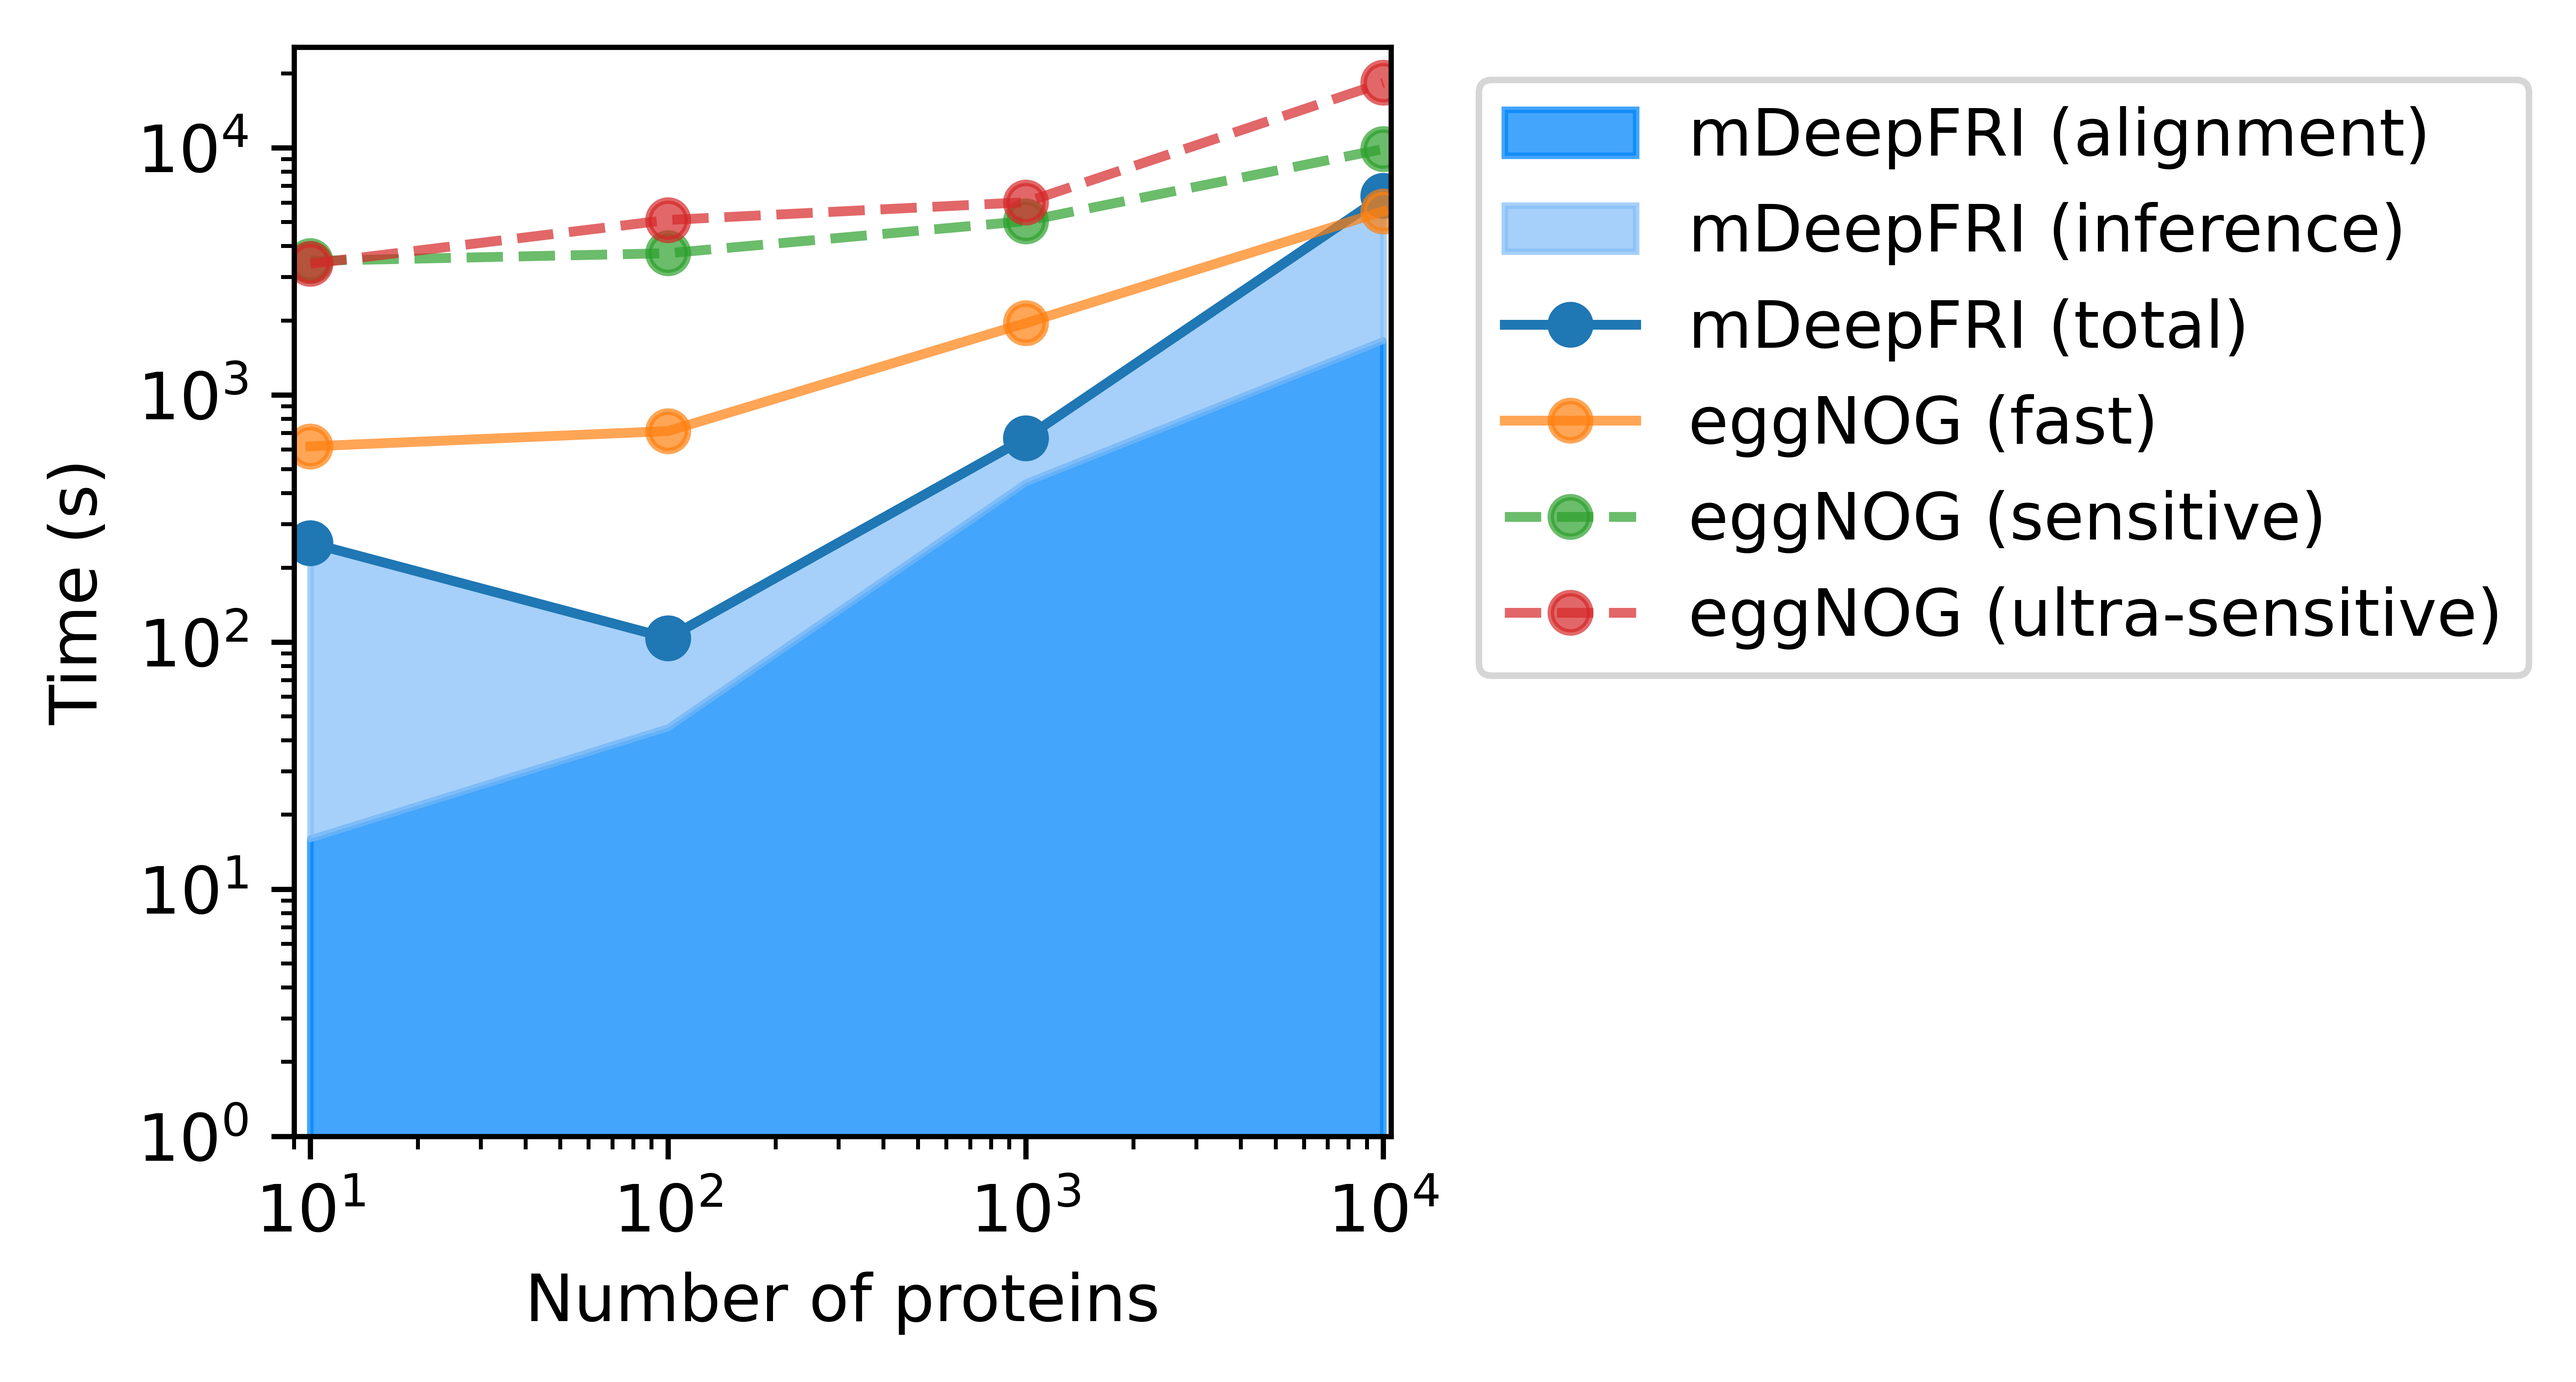
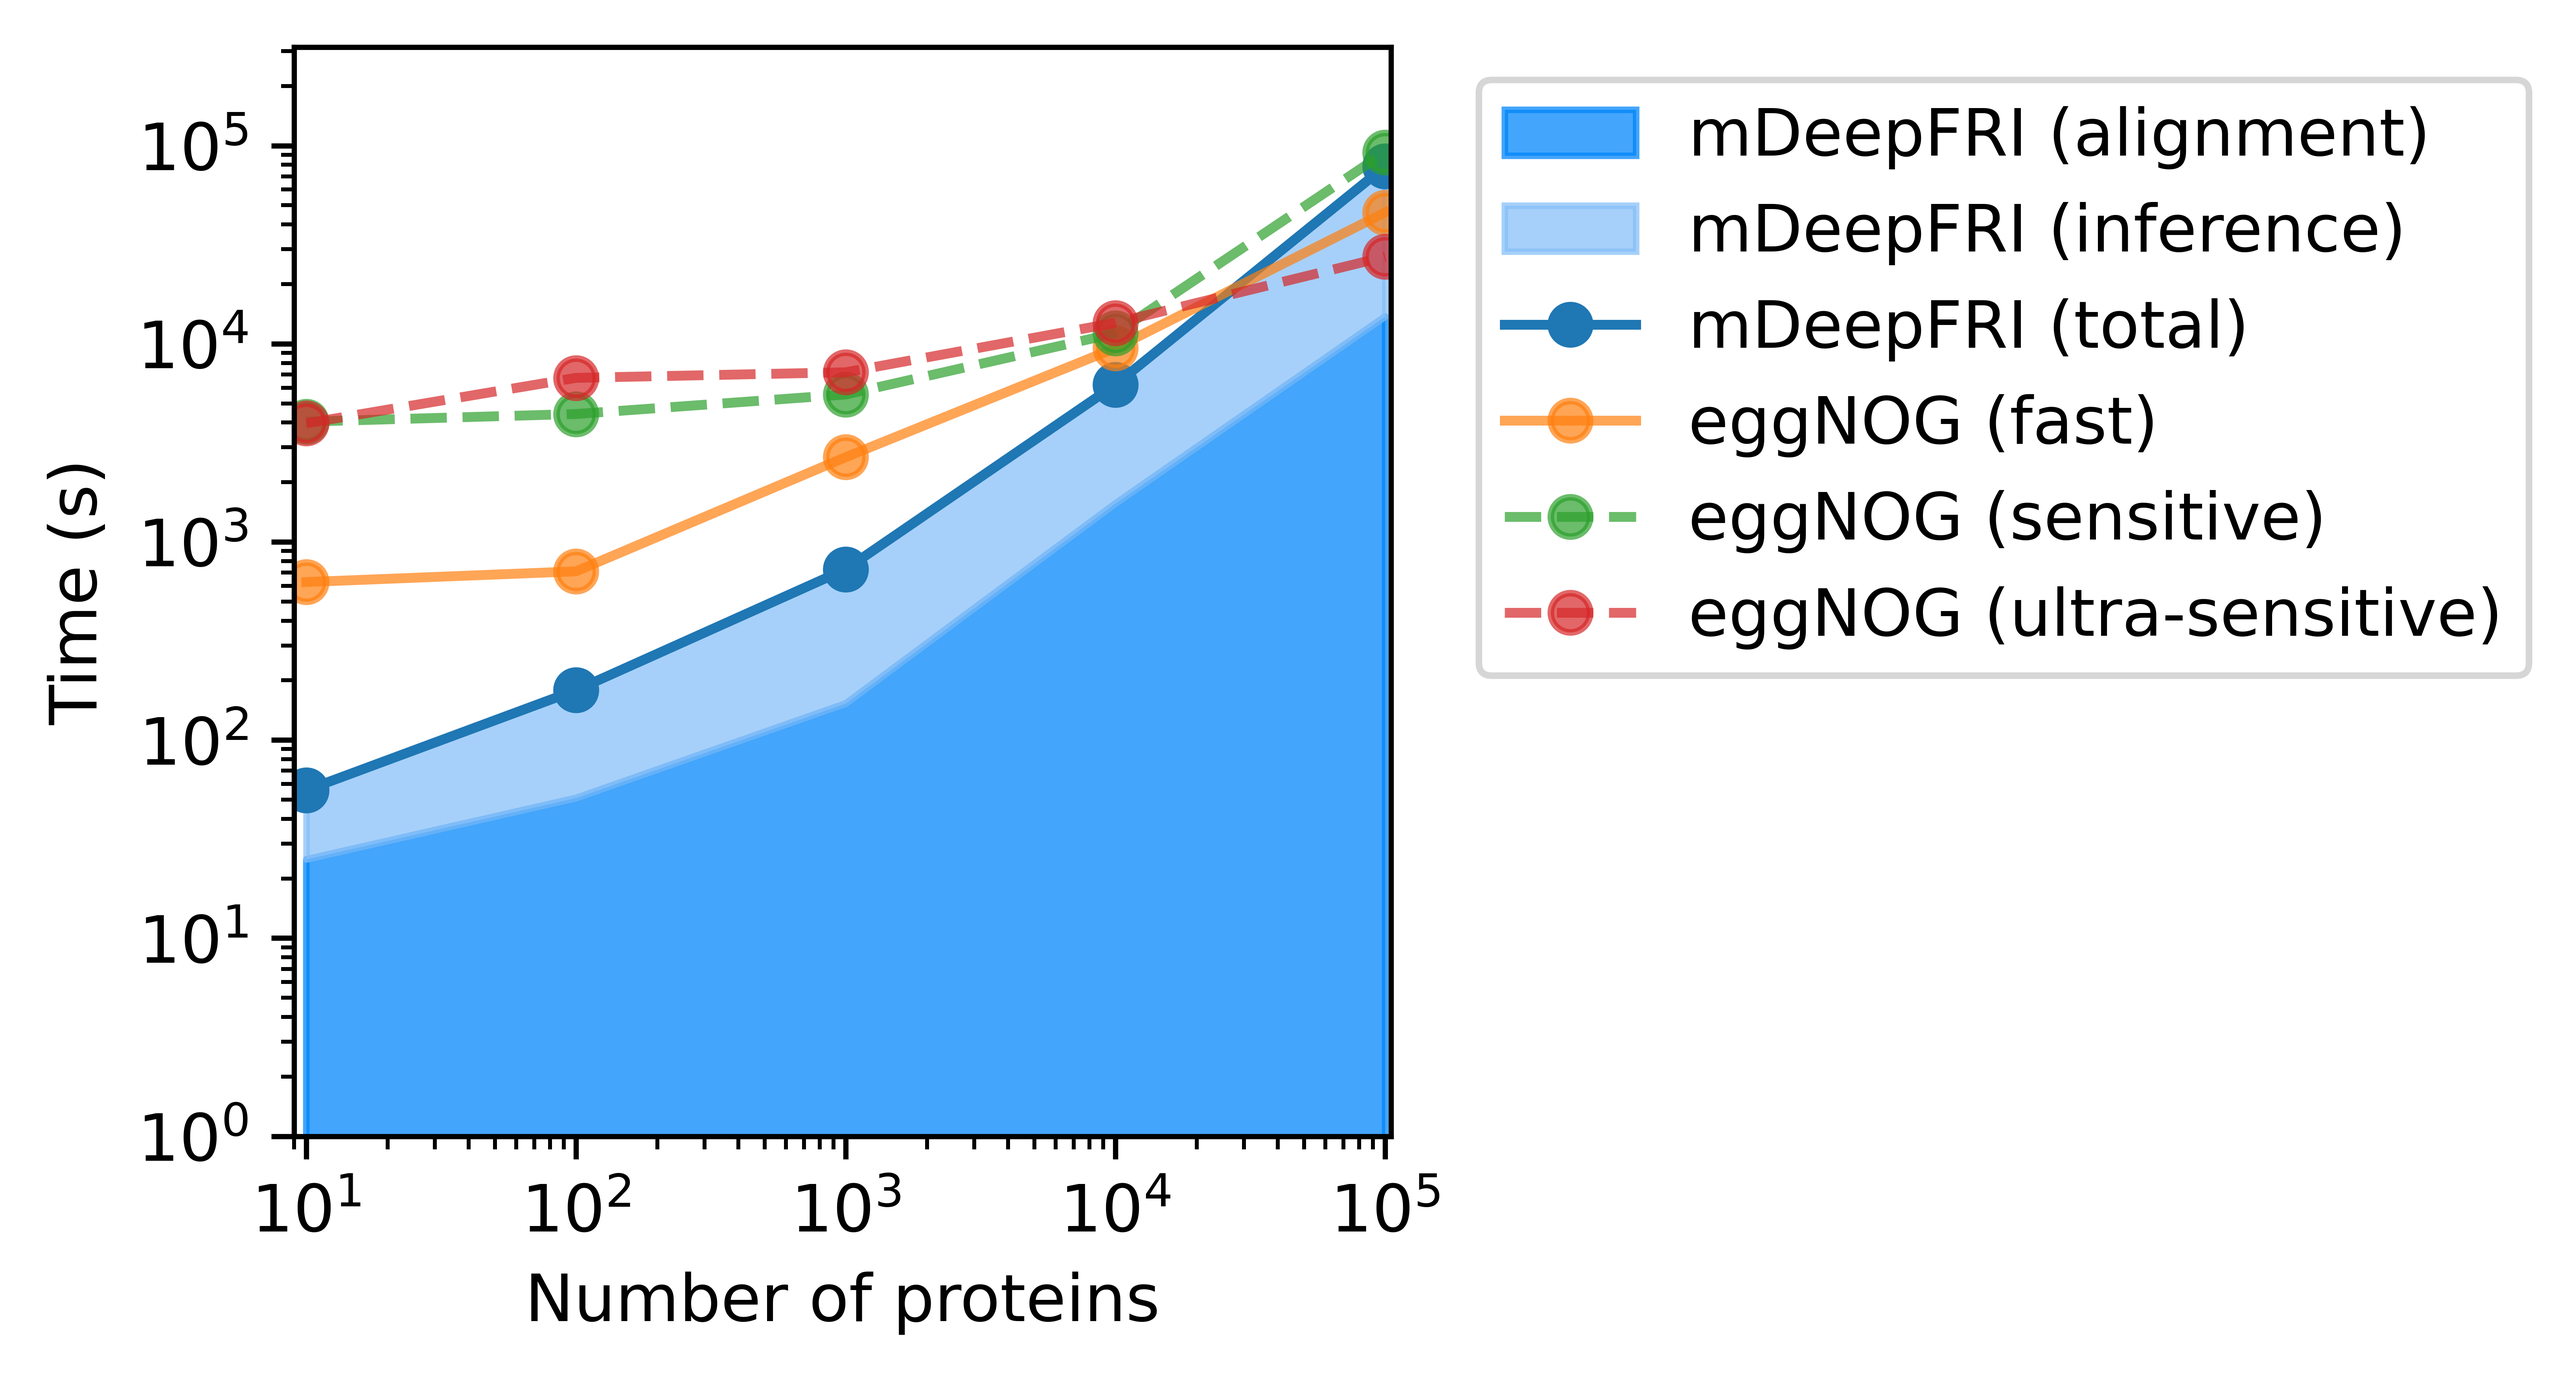
bench: update benchmark

diff --git a/benchmark/time_benchmark_cpu.py b/benchmark/time_benchmark_cpu.py
@@ -13,7 +13,7 @@ def generate_fasta(count, filename):
     command = [
         'conda', 'run', '-n', 'data-analysis', 'seqkit', 'sample', '-n',
         str(count), '-s', '42', '-o', filename, '-2',
-        '../data/databases/afdb_swissprot_v4.fasta.gz'
+        '/nfs/nas22/fs2202/biol_micro_sunagawa/Projects/EAN/PROPHAGE_REFSEQ_EAN/scratch/databases/afdb_swissprot_v4.fasta.gz'
     ]
     try:
         subprocess.run(command,
@@ -55,7 +55,7 @@ def generate_fasta(count, filename):
 
 def run_benchmark():
     # generate FASTA file with 10, 100, 1000 and 10,000 sequences
-    counts = [10, 100, 1000, 10000]
+    counts = [10, 100, 1000, 10000, 100_000]
 
     # Create temporary directory for outputs
     temp_dir = 'benchmark_temp'
@@ -159,8 +159,8 @@ def run_benchmark():
                 cmd = [
                     'conda', 'run', '-n', 'eggnog', 'emapper.py', '-i',
                     abs_fasta, '-o', eggnog_out_prefix, '--data_dir',
-                    '../data/databases', '--cpu', '16', '--override',
-                    '--pfam_realign', 'none'
+                    '/nfs/nas22/fs2202/biol_micro_sunagawa/Projects/EAN/PROPHAGE_REFSEQ_EAN/scratch/databases',
+                    '--cpu', '16', '--override', '--pfam_realign', 'none'
                 ] + sens_flags
 
                 run_step(cmd, f"EggNOG {sens_name}",
@@ -174,8 +174,11 @@ def run_benchmark():
             cmd = [
                 'conda', 'run', '-n', 'deepfri', 'mDeepFRI',
                 'predict-function', '-i', abs_fasta, '-d',
-                '../data/databases/afdb_swissprot_v4', '-d',
-                '../data/databases/highquality_clust30', '-w', '../models',
+                '/nfs/nas22/fs2202/biol_micro_sunagawa/Projects/EAN/PROPHAGE_REFSEQ_EAN/scratch/databases/afdb_swissprot_v4',
+                '-d',
+                '/nfs/nas22/fs2202/biol_micro_sunagawa/Projects/EAN/PROPHAGE_REFSEQ_EAN/scratch/databases/highquality_clust30',
+                '-w',
+                '/nfs/cds-peta/exports/biol_micro_cds_gr_sunagawa/scratch/vbezshapkin/Metagenomic-DeepFRI/../mDeepFRI_test/onnx_deepfri_models/',
                 '-o', deepfri_out, '-t', '16'
             ]
 

diff --git a/benchmark/time_benchmark_gpu.py b/benchmark/time_benchmark_gpu.py
@@ -47,7 +47,7 @@ def generate_fasta(count, filename):
     command = [
         'conda', 'run', '-n', 'data-analysis', 'seqkit', 'sample', '-n',
         str(count), '-s', '42', '-o', filename, '-2',
-        '../data/databases/afdb_swissprot_v4.fasta.gz'
+        '/nfs/nas22/fs2202/biol_micro_sunagawa/Projects/EAN/PROPHAGE_REFSEQ_EAN/scratch/databases/afdb_swissprot_v4.fasta.gz'
     ]
 
     subprocess.run(command,
@@ -86,7 +86,7 @@ def generate_fasta(count, filename):
 
 def run_benchmark():
     # generate FASTA file with 10, 100, 1000 and 10,000 sequences
-    counts = [10, 100, 1000, 10000]
+    counts = [10, 100, 1000, 10000, 100_000]
 
     # Create temporary directory for outputs
     temp_dir = Path('benchmark_temp_gpu')
@@ -185,8 +185,11 @@ def run_benchmark():
             cmd = [
                 'conda', 'run', '-n', 'deepfri', 'mDeepFRI',
                 'predict-function', '-i', abs_fasta, '-d',
-                '../data/databases/afdb_swissprot_v4', '-d',
-                '../data/databases/highquality_clust30', '-w', '../models',
+                '/nfs/nas22/fs2202/biol_micro_sunagawa/Projects/EAN/PROPHAGE_REFSEQ_EAN/scratch/databases/afdb_swissprot_v4',
+                '-d',
+                '/nfs/nas22/fs2202/biol_micro_sunagawa/Projects/EAN/PROPHAGE_REFSEQ_EAN/scratch/databases/highquality_clust30',
+                '-w',
+                '/nfs/cds-peta/exports/biol_micro_cds_gr_sunagawa/scratch/vbezshapkin/Metagenomic-DeepFRI/../mDeepFRI_test/onnx_deepfri_models/',
                 '-o', deepfri_out, '-t', '8'
             ]
 
